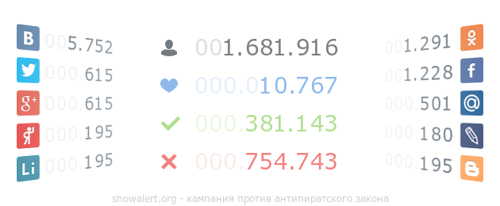
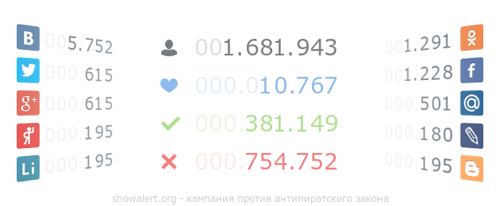
update statistics files for plugins

Changed region(s): [[0.6, 0.1748, 0.69, 0.2913], [0.6, 0.7282, 0.69, 0.8447], [0.63, 0.5534, 0.69, 0.6117]]

diff --git a/votes.js b/votes.js
@@ -1,1 +1,1 @@
-window.lk.votes(32700)
+window.lk.votes(32706)
